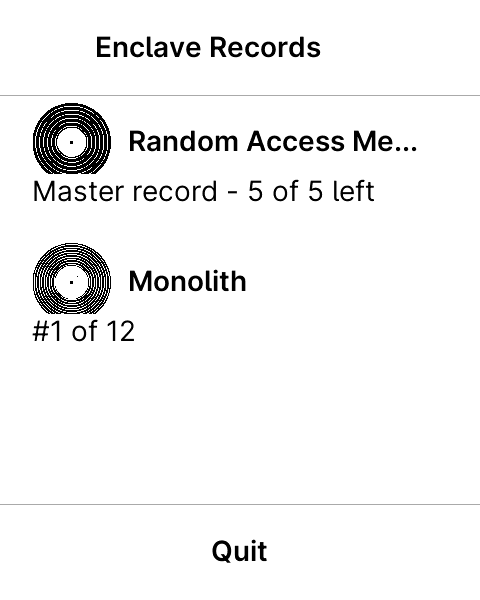
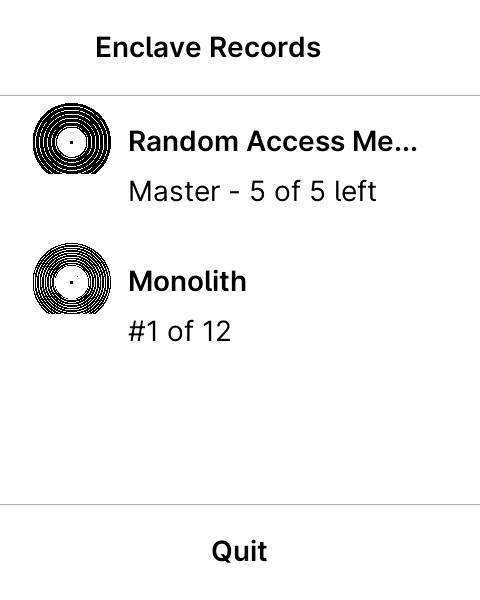
Lot 1 UI: align list-row status under the title
The library row's status shared no left edge with the title: NBGL pushes
a bar's sub-text back to the container margin (under the thumbnail) while
the title is inset past it. Indent the status by the thumbnail's inset
(measured in its own font) so title and status read as one text column
to the right of the thumbnail, which now spans both lines. The master
row's label shortens to "Master" so "Master - N of M left" fits that
narrower column on one line; the single-record hero keeps "Master record".

Screens 03/03b/04 regenerated. 28 tests pass.

Changed region(s): [[0.0625, 0.3, 0.4688, 0.36], [0.0625, 0.51, 0.5, 0.57], [0.5, 0.3, 0.7812, 0.36]]

diff --git a/device-app/src/handlers/collection.rs b/device-app/src/handlers/collection.rs
@@ -162,6 +162,26 @@ fn label_value_row(
 #[cfg(any(target_os = "stax", target_os = "flex"))]
 const ROW_VALUE_RIGHT_PX: u16 = 344;
 
+/// A library row's status line, indented to start under the row's title rather
+/// than at the screen's left edge. NBGL's touchable bar pushes a bar's sub-text
+/// back to the container's left margin (under the thumbnail), while the title is
+/// inset past the thumbnail; left as-is the two lines don't share a left edge.
+/// Prepending spaces worth the thumbnail's inset (its width plus the bar's
+/// interval) lines the status up with the title, so title and status read as a
+/// single text column to the right of the thumbnail. Measured in the sub-text's
+/// own font.
+#[cfg(any(target_os = "stax", target_os = "flex"))]
+fn indent_subtext(status: &str, indent_px: u16) -> String {
+    let font = ledger_secure_sdk_sys::BAGL_FONT_INTER_REGULAR_28px;
+    let measure = |s: &str| -> u16 {
+        let c = CString::new(s).unwrap_or_default();
+        unsafe { ledger_secure_sdk_sys::nbgl_getSingleLineTextWidth(font, c.as_ptr()) }
+    };
+    let space_w = measure("A A").saturating_sub(measure("AA")).max(1);
+    let n = (indent_px / space_w) as usize;
+    format!("{}{}", " ".repeat(n), status)
+}
+
 /// Which record a card shows. A device holds a master, a pressing, or (rarely)
 /// both; the library row tapped selects which.
 #[cfg(any(target_os = "stax", target_os = "flex"))]
@@ -699,12 +719,12 @@ impl Library {
                 } else {
                     format!("{} of {} left", nvm.counter, nvm.edition)
                 };
-                layout.touchable_bar(
-                    icon,
-                    cstr(title_fit),
-                    cstr(format!("Master record{}{}", ROW_SEP, row_status)),
-                    TOKEN_MASTER,
-                );
+                // "Master" (not "Master record") so the label plus "N of M left"
+                // fits the indented text column on one line; the single-record
+                // hero, with the whole width, keeps the full "Master record".
+                let status_line =
+                    indent_subtext(&format!("Master{}{}", ROW_SEP, row_status), half as u16 + 16);
+                layout.touchable_bar(icon, cstr(title_fit), cstr(status_line), TOKEN_MASTER);
             } else {
                 // The master is the one record that carries a role label: it is
                 // the plate, not a default copy. A default pressing goes
@@ -735,7 +755,8 @@ impl Library {
                     ledger_secure_sdk_sys::BAGL_FONT_INTER_SEMIBOLD_28px,
                     ROW_TITLE_MAX_PX,
                 );
-                layout.touchable_bar(icon, cstr(title_fit), cstr(status), TOKEN_PRESSING);
+                let status_line = indent_subtext(&status, half as u16 + 16);
+                layout.touchable_bar(icon, cstr(title_fit), cstr(status_line), TOKEN_PRESSING);
             } else {
                 // A default pressing is not labelled "your copy": what the owner
                 // holds is simply the record, shown by title and its "#N of M".
@@ -895,7 +916,7 @@ pub fn handler_library_preview(command: Command<'_>, count: u8) -> Result<Comman
         let thumb = crate::sleeve::to_display(&crate::sleeve::decimate(&canonical, n));
         let icon = arena.icon(thumb, half as u16, half as u16, ledger_secure_sdk_sys::NBGL_BPP_1);
         let sub = if i == 0 {
-            format!("Master record{}5 of 5 left", ROW_SEP)
+            format!("Master{}5 of 5 left", ROW_SEP)
         } else {
             format!("#{} of 12", i)
         };
@@ -908,6 +929,7 @@ pub fn handler_library_preview(command: Command<'_>, count: u8) -> Result<Comman
             ledger_secure_sdk_sys::BAGL_FONT_INTER_SEMIBOLD_28px,
             ROW_TITLE_MAX_PX,
         );
+        let sub = indent_subtext(&sub, half as u16 + 16);
         layout.touchable_bar(icon, cstr(title_fit), cstr(sub), TOKEN_PRESSING);
     }
     layout.footer(cstr(String::from("Quit")), TOKEN_QUIT);
